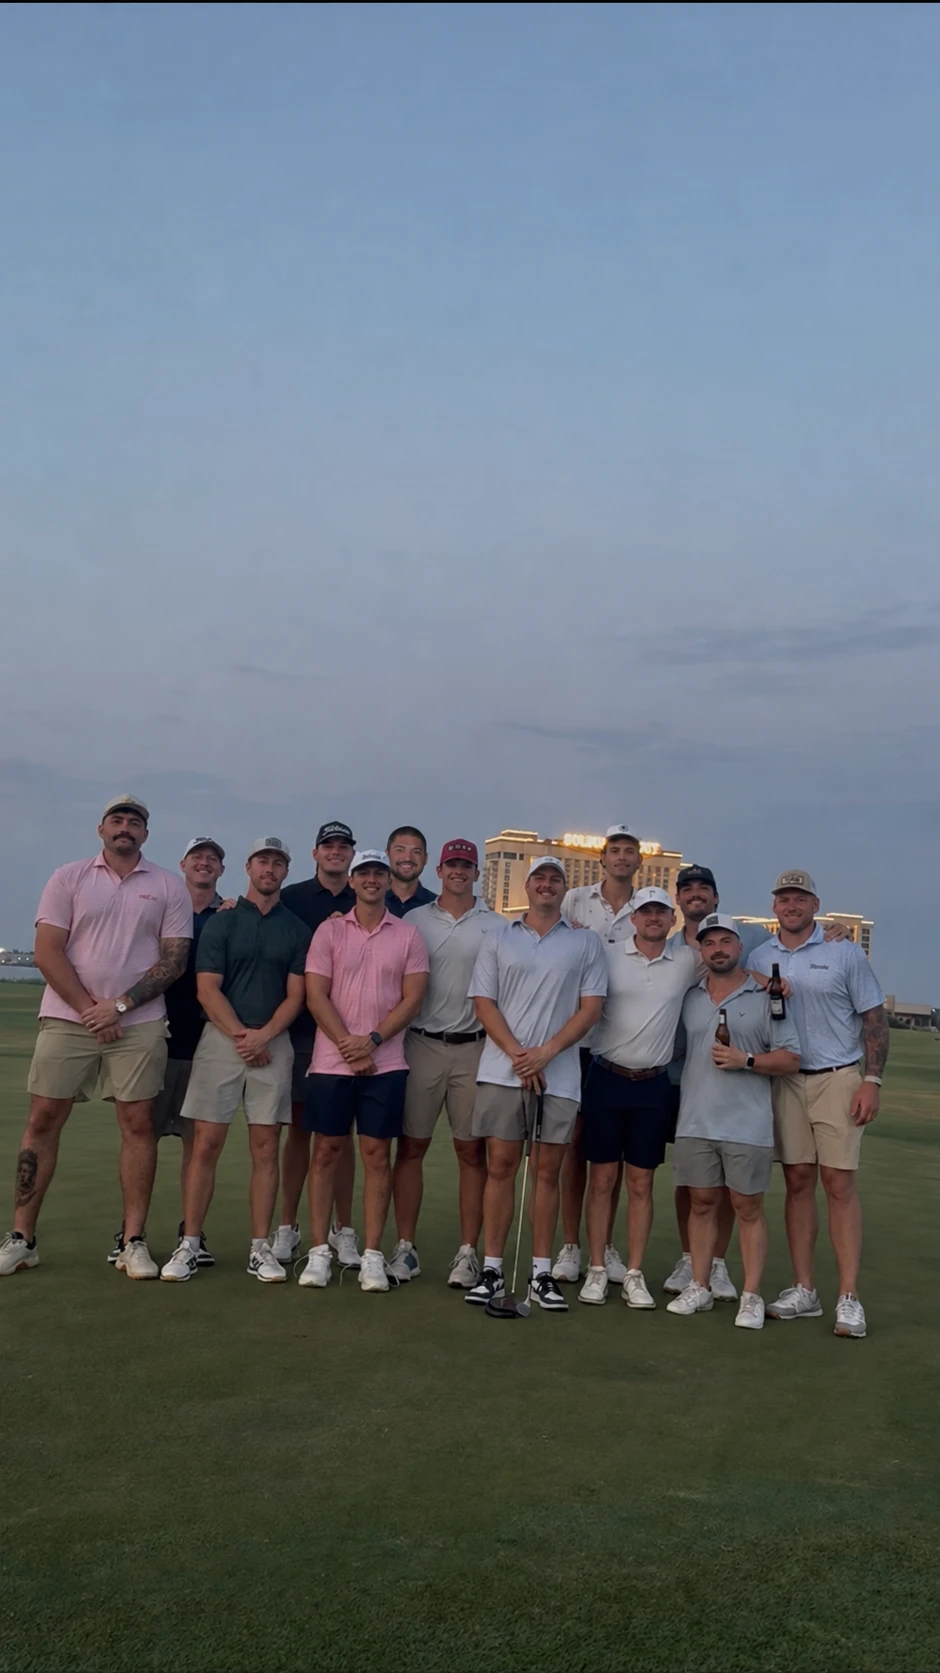
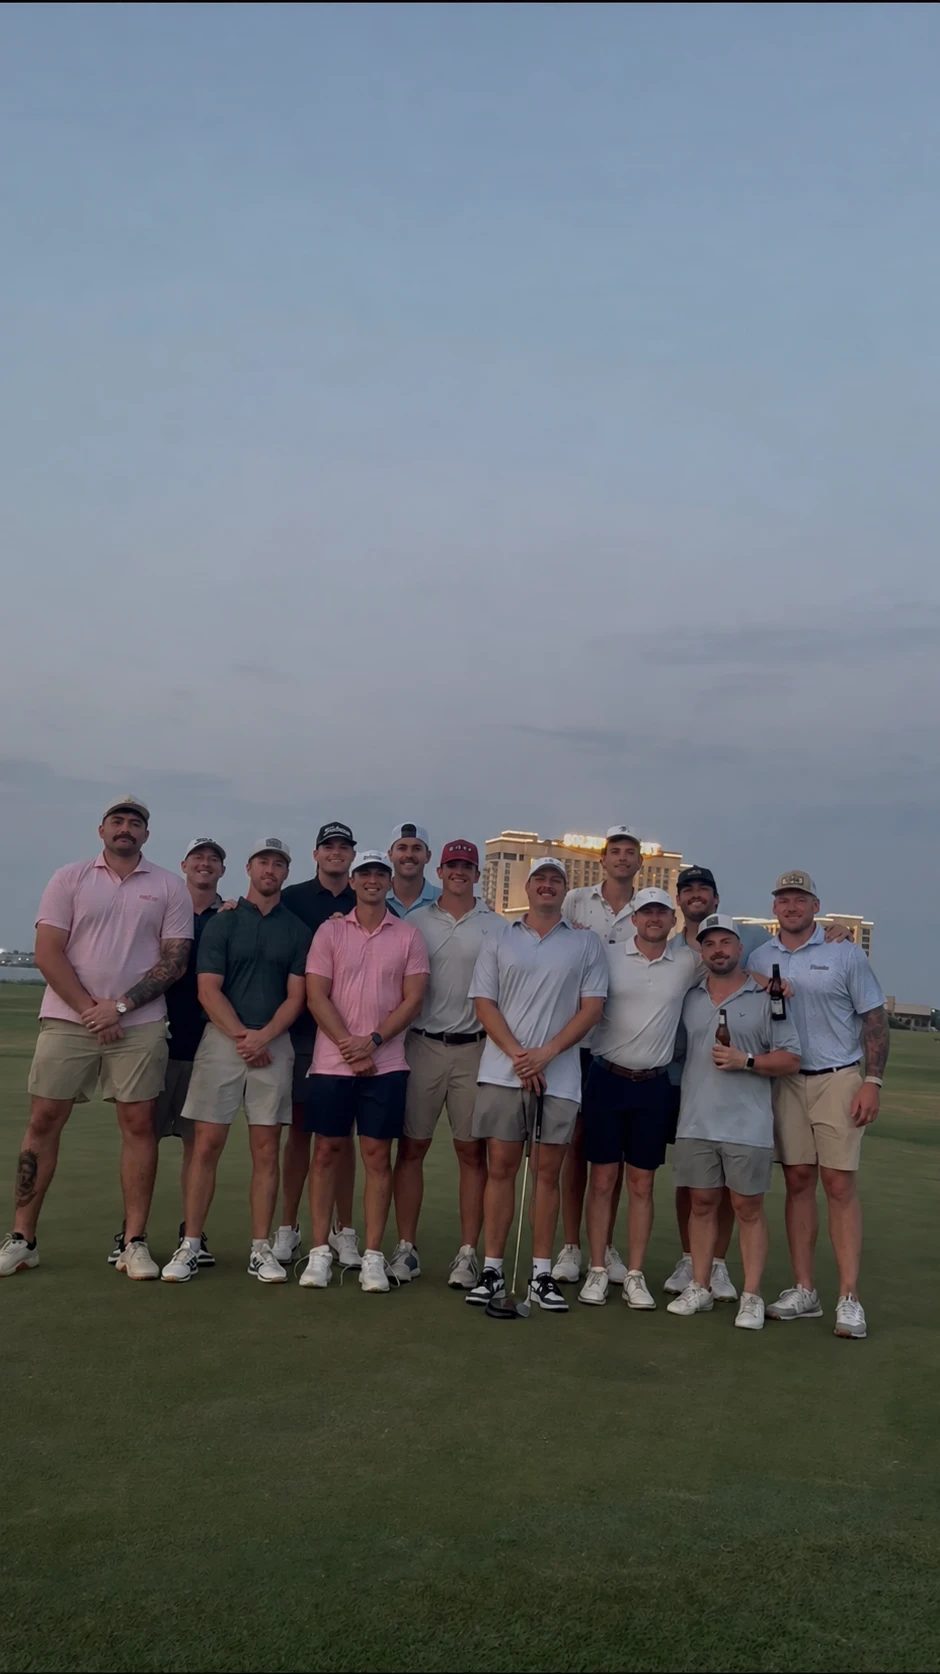
Use newly uploaded Brandon photo for group composite and green-jacket profile

diff --git a/index.html b/index.html
@@ -229,6 +229,7 @@ const PLAYER_CATALOG=[
 ['Nate Cox','nate.cox','nate-cox/2830','2018/8/7/Cox_Nate_2018.jpg','Quarterback · #13'],
 ['Kody Russey','kody.russey','kody-russey/6289','2020/7/31/Russey_Kody.jpg','Offensive Line · #65']
 ].map(([name,username,football,image,position])=>({name,username,football:football?`https://latechsports.com/sports/football/roster/${football}`:null,photo:image?`https://images.sidearmdev.com/crop?height=270&type=webp&url=${encodeURIComponent('https://dxbhsrqyrr690.cloudfront.net/sidearm.nextgen.sites/latechsports.com/images/'+image)}&width=180`:null,photoFallback:image?'https://dxbhsrqyrr690.cloudfront.net/sidearm.nextgen.sites/latechsports.com/images/'+image:null,position}));
+Object.assign(PLAYER_CATALOG.find(p=>p.username==='brandon.durman'),{photo:'./assets/brandon-green-jacket.webp',photoFallback:'./assets/brandon-green-jacket.webp'});
 let state;try{state=JSON.parse(localStorage.getItem(STORE));if(!state?.players||!state?.seasons)throw Error('No save')}catch{state=initial()};
 const normalizeName=s=>String(s||'').toLowerCase().replace(/[^a-z0-9]/g,'');
 function mergeCatalog(){
@@ -238,6 +239,7 @@ function mergeCatalog(){
   let p=state.players.find(p=>normalizeName(p.name)===normalizeName(cat.name)||p.username===cat.username);
   if(!p){const placeholder=state.players.find(p=>/^Golfer \d+$/i.test(p.name)&&!kept.includes(p));p=placeholder||{id:'player-'+cat.username.replace('.','-'),handicap:null};if(!state.players.includes(p))state.players.push(p);}
   p.name=p.name||cat.name;p.username=cat.username;p.football=cat.football;p.officialPhoto=cat.photo;p.officialPhotoFallback=cat.photoFallback;p.position=cat.position;
+  if(cat.username==='brandon.durman'&&p.photoRevision!=='green-jacket-20261022'){p.previousCustomPhoto=p.customPhoto||null;p.customPhoto=null;p.photoRevision='green-jacket-20261022';}
   if(p.handicap===undefined)p.handicap=null;if(p.handicapChecked===undefined)p.handicapChecked=null;if(p.ghinNumber===undefined)p.ghinNumber='';if(p.fantasyCharacterId===undefined)p.fantasyCharacterId=null;
   if(p.fantasyCharacterId&&!charById(p.fantasyCharacterId))p.fantasyCharacterId=null;
   kept.push(p);

diff --git a/sw.js b/sw.js
@@ -1,5 +1,6 @@
-const CACHE='gga-ryder-cup-group-v11';
+const CACHE='gga-ryder-cup-brandon-v12';
 const CORE=['./','./index.html','./premium.css','./dossier-dark.css','./draft-board.js?v=20261022a','./player-strengths.js?v=20261022b','./player-dossier.js?v=20261022-rankings','./ghin-snapshot.js?v=20261021a','./gga-upgrade.js?v=20261022-draft','./gga-cloud.js?v=20261022-draft','./firebase-config.js','./assets/gga-2026-group.webp','./assets/gga-icon.png','./assets/golf-legends.webp','./assets/golf-legends-extra.webp','./manifest.webmanifest'];
+CORE.push('./assets/brandon-green-jacket.webp');
 self.addEventListener('install',event=>{event.waitUntil(caches.open(CACHE).then(cache=>cache.addAll(CORE)));self.skipWaiting();});
 self.addEventListener('activate',event=>{event.waitUntil(caches.keys().then(keys=>Promise.all(keys.filter(key=>key!==CACHE).map(key=>caches.delete(key)))));self.clients.claim();});
 self.addEventListener('fetch',event=>{
